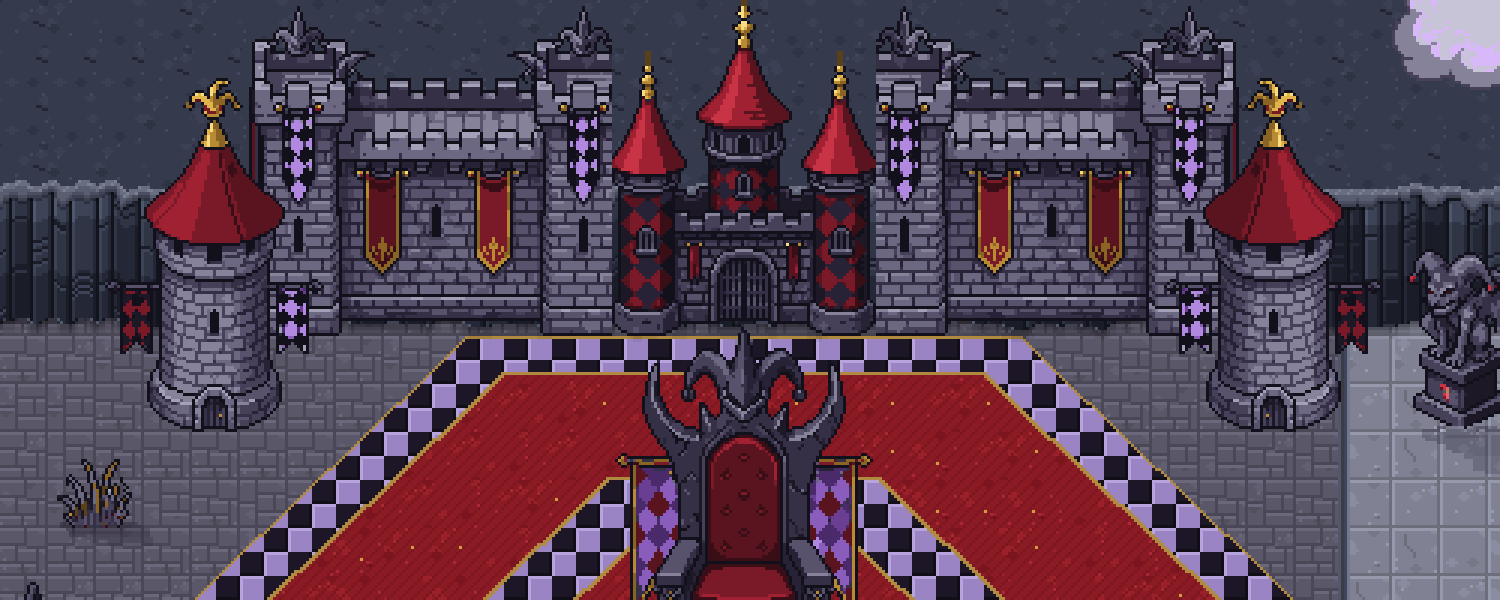
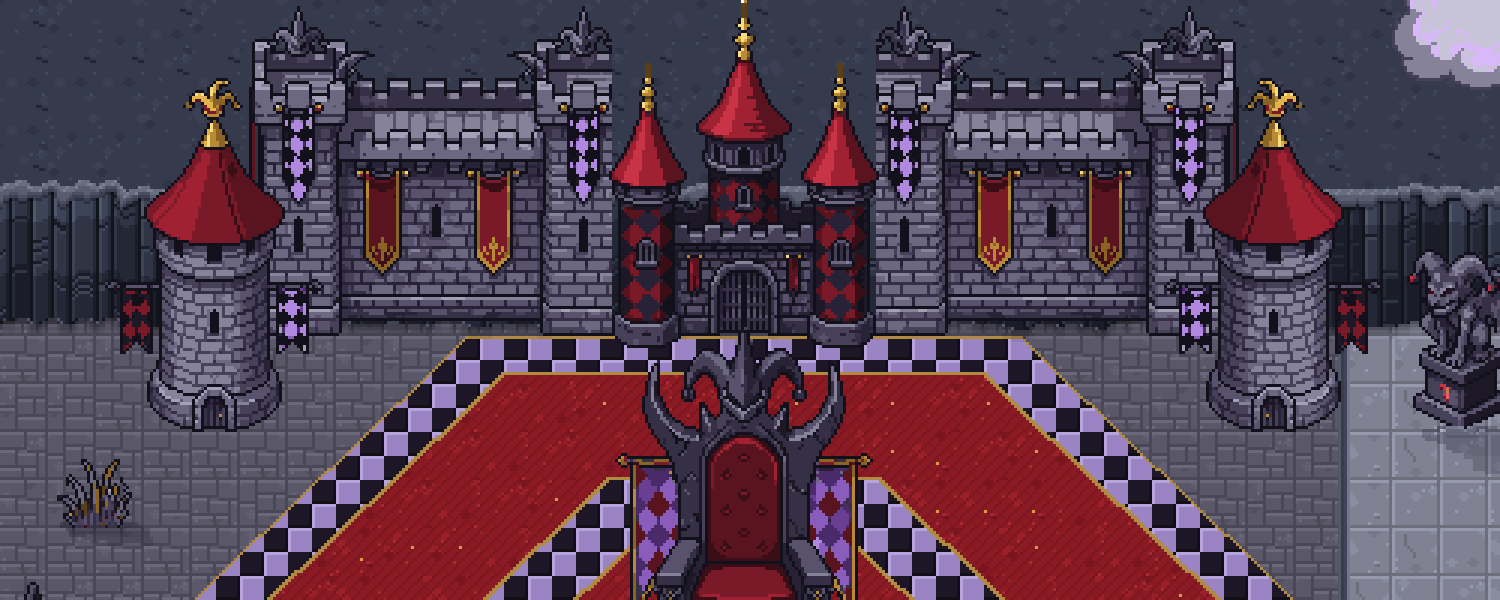
Karte 14: Schloss - Turmspitze nicht mehr am Kartenrand abgeschnitten, Schloss vor der Mauer, abgeschnittene Kegeldach-Traufen im Sprite gespiegelt ergaenzt, lose Wimpelreste entfernt
Claude-Session: https://claude.ai/code/session_01SaoYHKhnro4LFcPJqjaPsq

Changed region(s): [[0.3987, 0.0, 0.5827, 0.6]]

diff --git a/tools/karte14_objekte.py b/tools/karte14_objekte.py
@@ -226,6 +226,9 @@ def main():
         FEST += [('mittel/06', ACHSE_S - 60, y, {'symm': 'f%d' % y}), ('mittel/06', ACHSE_S + 60, y, {'symm': 'f%d' % y})]
     for (name, X, fy, opt) in FEST:
         setzen(name, X, fy, opt, suchen=not (opt.get('symm') or opt.get('achse')), melden=True)
+    for o in objekte:                                             # Schloss ganz im Bild (Turmspitze nicht am Rand
+        if o['basis'] == 'schloss2/01':                           # abgeschnitten) und vor der Mauer gezeichnet
+            o['y'] = max(o['y'], 0)
     # 2) Kristalle auf dem Kristallboden, Spielkarten und Deko auf dem Gipfel, Kleinkram (sparsam, unregelmaessig)
     for (streu, arten, anzahl) in ((KRISTALL, 'p', 14), (STREU, 'dk', 22), (KLEIN, 'dkv', 52)):
         namen, gew = list(streu), list(streu.values())
